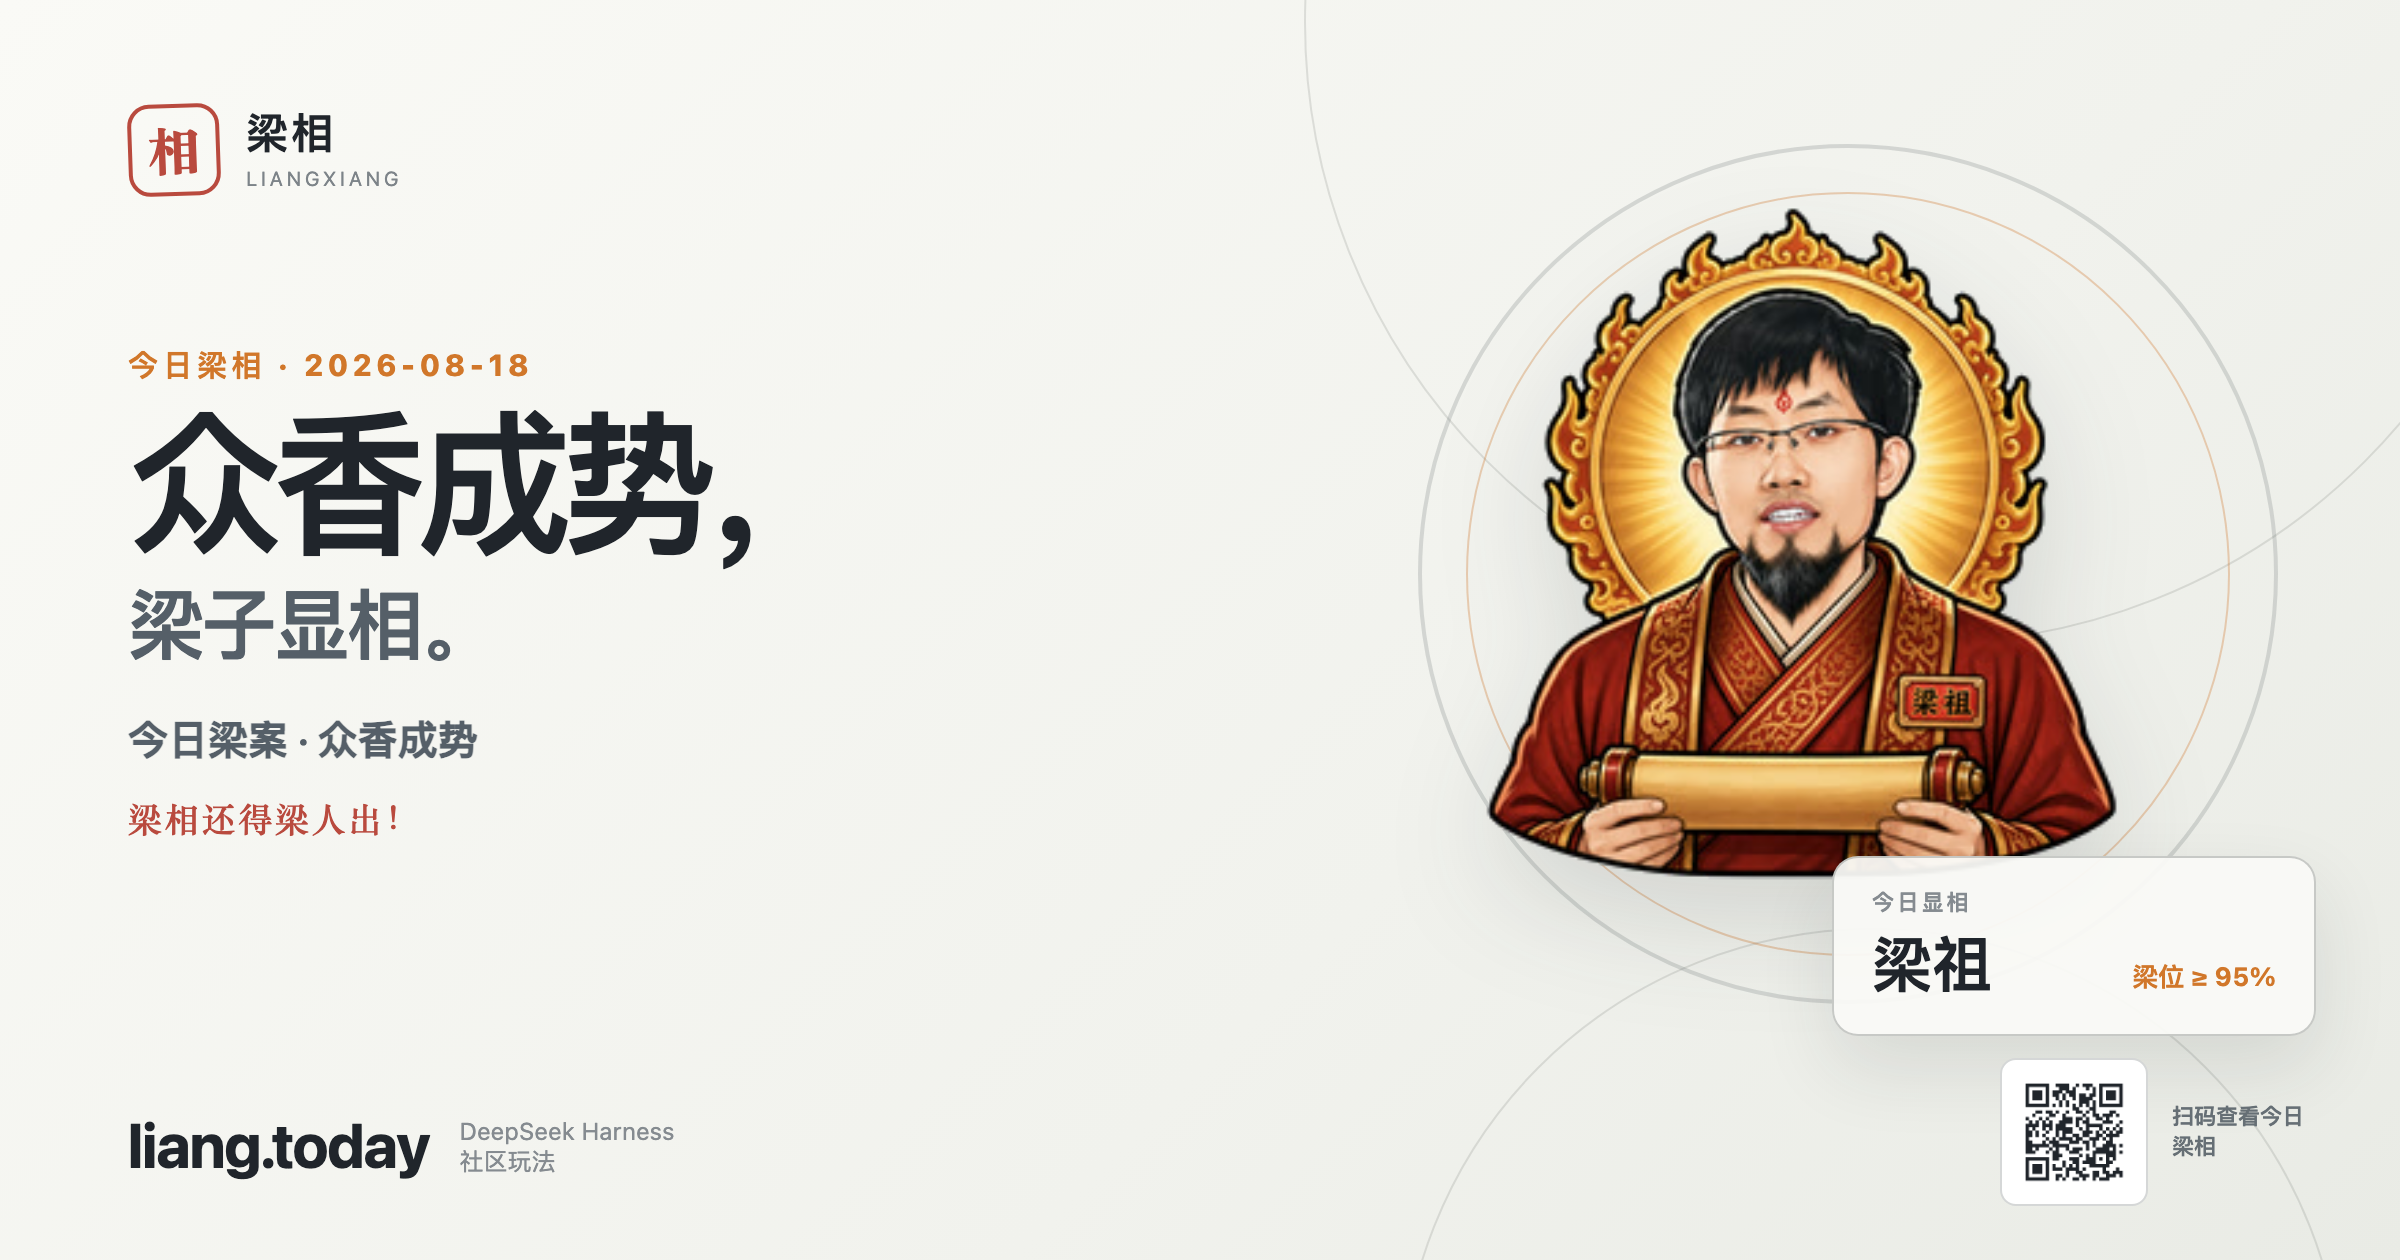
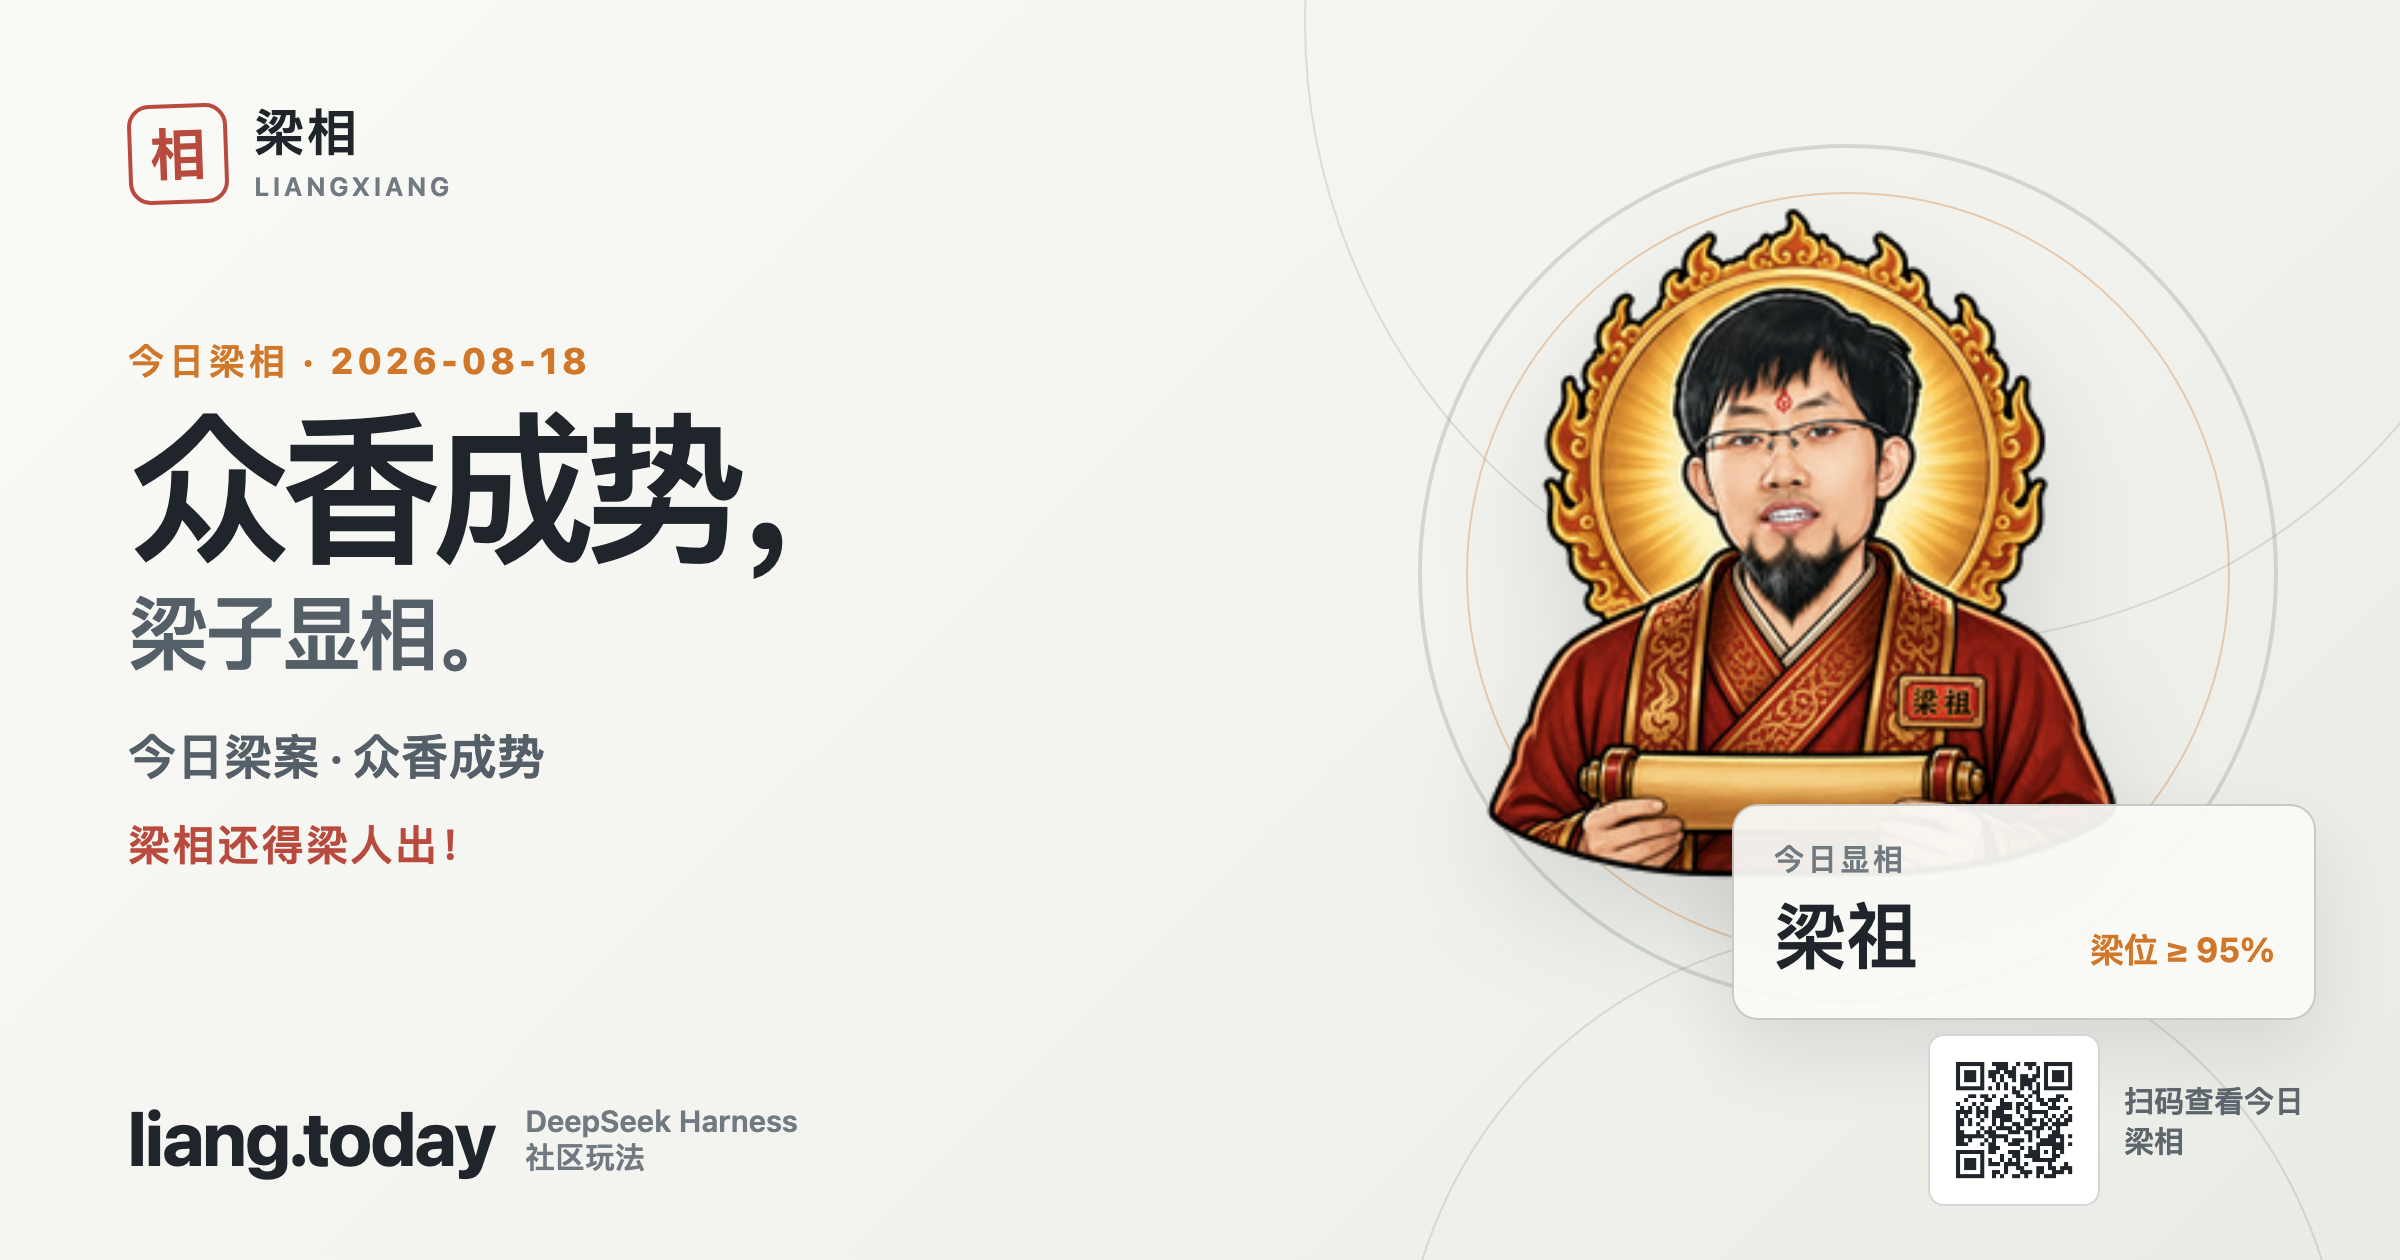
fix: clarify site copy and enlarge social cards

diff --git a/src/styles/global.css b/src/styles/global.css
@@ -1335,7 +1335,14 @@ input {
 
 .liangci-native-summary strong {
   margin-top: 3px;
-  font-size: 13px;
+  font-size: 15px;
+}
+
+.liangci-native-summary strong small {
+  margin-left: 4px;
+  color: var(--warm);
+  font-size: 11px;
+  font-variant-numeric: tabular-nums;
 }
 
 .liangci-native-scroll {

diff --git a/src/pages/about/index.md b/src/pages/about/index.md
@@ -6,7 +6,7 @@ eyebrow: 关于
 aside: 一个从 DeepSeek Harness 使用中长出来的每日社区玩法。
 sections:
   - href: '#story'
-    label: 梁相的故事
+    label: 梁相的含义
   - href: '#names'
     label: 命名体系
   - href: '#open-source'
@@ -21,11 +21,11 @@ sections:
 
 梁相是一个 DeepSeek Harness 社区玩法。每天一道梁案，大家在使用模型的过程中凝成香火，投下一炷“夯”或“拉”；众人的选择汇成梁位，显出今日梁子。日终之后，结果收入梁祠。
 
-<h2 id="story">为什么叫“梁相”</h2>
+<h2 id="story">梁相的含义</h2>
 
-“相”有两层意思：它是梁子在当日梁位下呈现的**形相**，也承接宝相、显相的轻微仪式感。香火、梁位、上达天听与梁祠因此进入同一套叙事，但产品并不宣称宗教属性。
+**梁相**是众香汇成梁位后，梁子在当日呈现的形相。香火承载每次表态，梁位记录众人的选择，梁子依势显相，日终结果收入梁祠。
 
-品牌写作 **梁相**，不是“梁向”。前者说的是被众香显出的形相；后者会把产品误读成方向判断。
+中文品牌统一写作 **梁相**，英文标识为 **liangxiang**，主域名为 **liang.today**。
 
 ```text
 今日开梁案
@@ -61,9 +61,9 @@ sections:
 
 ### 现代编年志 × 克制梁祠
 
-界面以现代桌面产品为底：清晰层级、稳定信息密度与克制的中性色。日历、编年与少量朱印提供识别；暖金和朱红只做标点，不铺成宫殿背景。
+界面以现代桌面产品为底：清晰层级、稳定信息密度与克制的中性色。日历、编年与少量朱印提供识别，暖金和朱红用于重点标记。
 
-### 好玩，但不模糊事实
+### 玩法轻松，事实清楚
 
 - 投票只有夯与拉，一炷就是一票。
 - 梁位是社区参与者的夯率，不是民调或本人立场。
